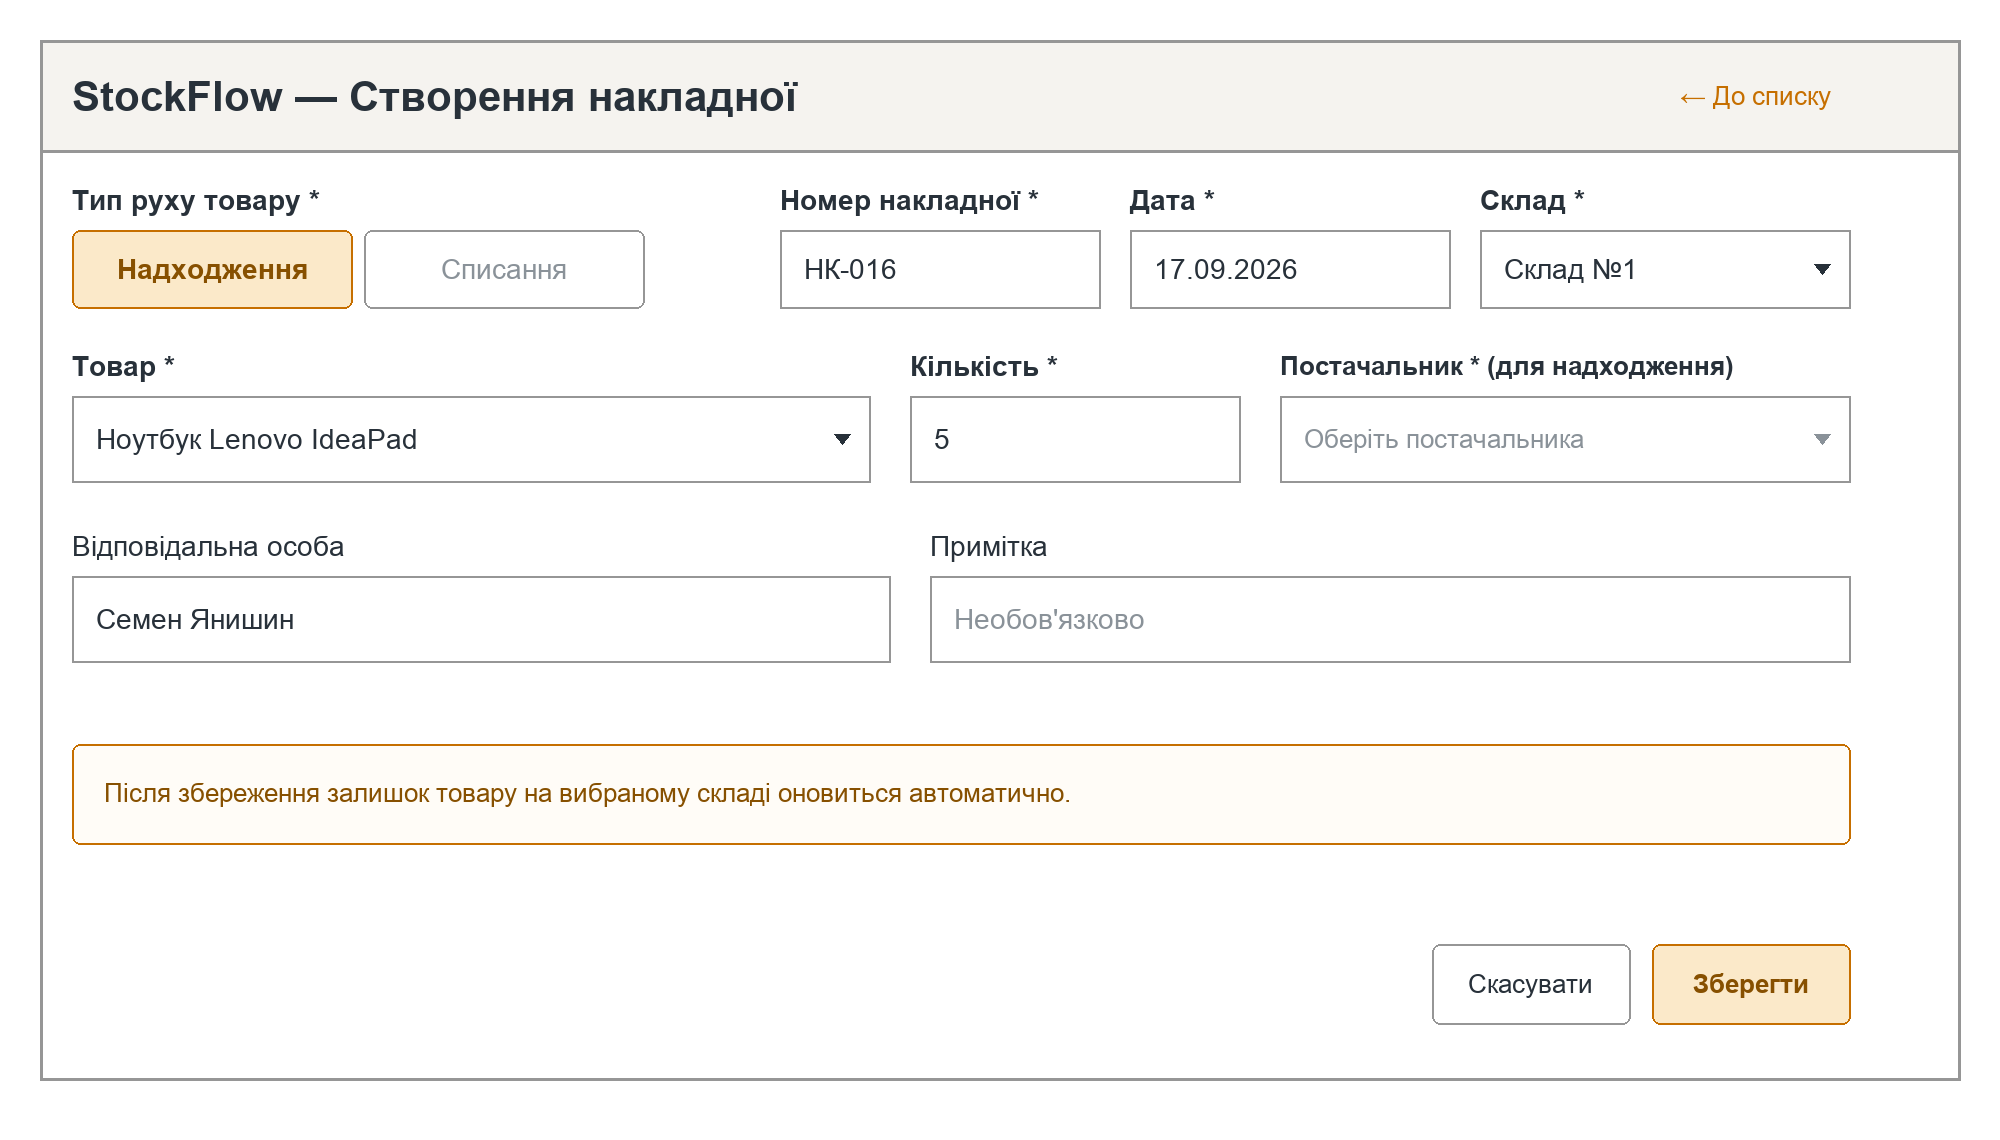
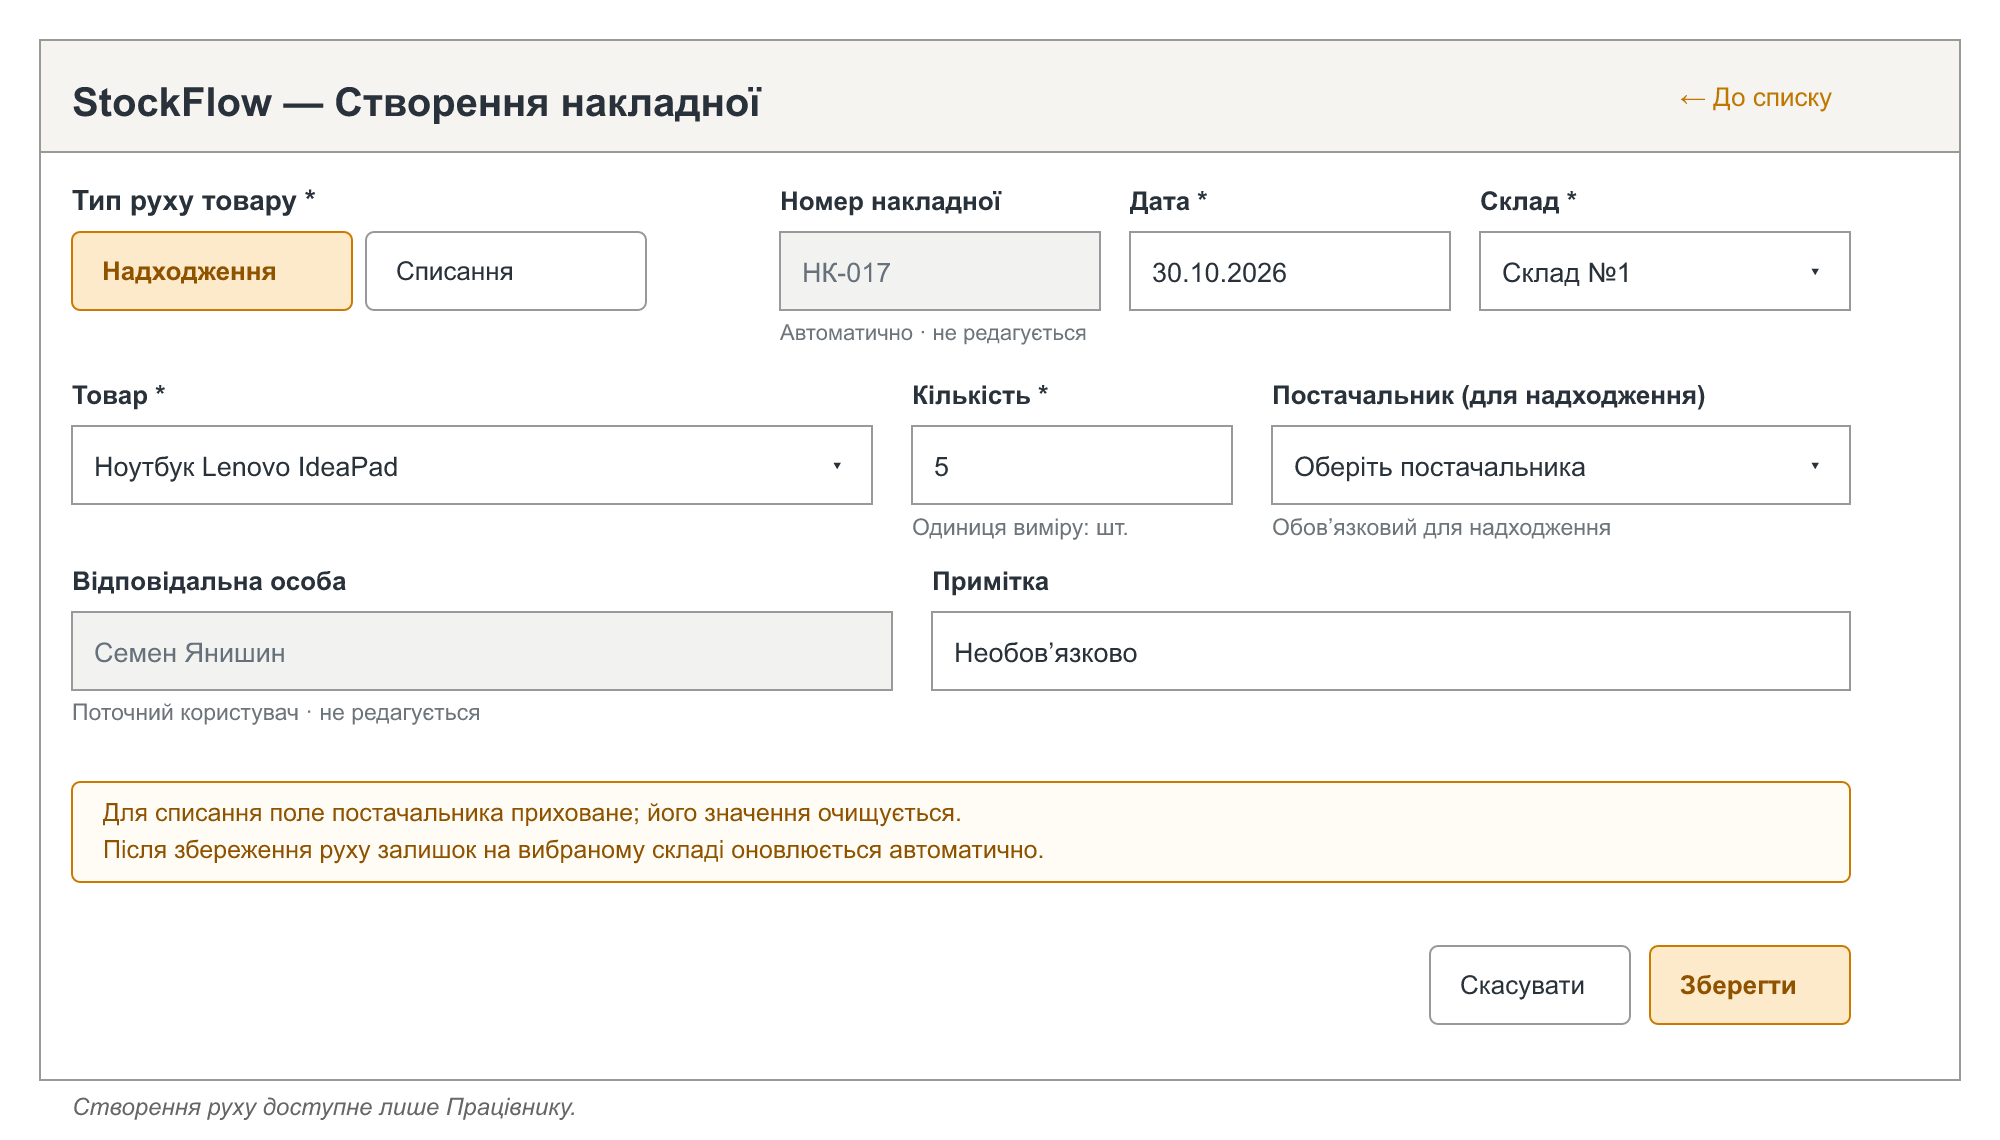
Align movement wireframes with domain model and add editable SVG sources

diff --git a/documentation/wireframes-movements.md b/documentation/wireframes-movements.md
@@ -1,0 +1,36 @@
+# SE-7: макети руху товару
+
+Оновлено головне меню, список накладних і форму створення відповідно до
+`requirements.md`, UML/ER і плану етапу 6. Це макети, а не скриншоти запущеного WPF.
+
+- Використано назви «Надходження» та «Списання»; прибрано колонку статусу.
+- У формі номер `НК-017` позначено як автоматичний і нередагований; «НК» кирилицею.
+- Відповідальна особа береться з поточного користувача і не редагується.
+- Збережено підпис «Постачальник (для надходження)». Уточнено обов'язковість для
+  надходження та приховування й очищення значення для списання.
+- У списку є товар, кількість з одиницею виміру, склад і відповідальний; перегляд
+  запису лише для читання. Створює рух лише Працівник, переглядають обидві ролі.
+- Світла палітра, структура шапки, карток, таблиць та бурштинові акценти збережені.
+
+## Редагування й експорт
+
+Редагованих drawio/SVG-джерел раніше не було. Додані SVG з окремими векторними
+елементами та текстом у `documentation/diagrams/wireframes/`:
+
+- `wireframe-mainmenu.svg` → `wireframe-mainmenu.png` (2000 × 1100);
+- `wireframe-invoicelist.svg` → `wireframe-invoicelist.png` (2000 × 1300);
+- `wireframe-movementform.svg` → `wireframe-movementform.png` (2000 × 1140).
+
+SVG можна редагувати у векторному редакторі або як XML. Чинні шляхи PNG збережено.
+Для відтворення експорту потрібні Node.js, системний шрифт Arial та
+[@resvg/resvg-js](https://github.com/thx/resvg-js) 2.6.2. З кореня репозиторію на macOS:
+
+```sh
+npm install --prefix /private/tmp/stockflow-svg-render --save-exact @resvg/resvg-js@2.6.2
+NODE_PATH=/private/tmp/stockflow-svg-render/node_modules node documentation/diagrams/wireframes/render-movements.cjs
+```
+
+Пакет встановлюється поза репозиторієм і не стає залежністю застосунку.
+Усі три PNG експортовано й візуально перевірено: український текст читається,
+підписи та компоненти не обрізані. SVG перевірено XML-парсером; розміри PNG
+відповідають SVG і попереднім PNG. WPF-код не змінювався, Windows-прогін не виконувався.
